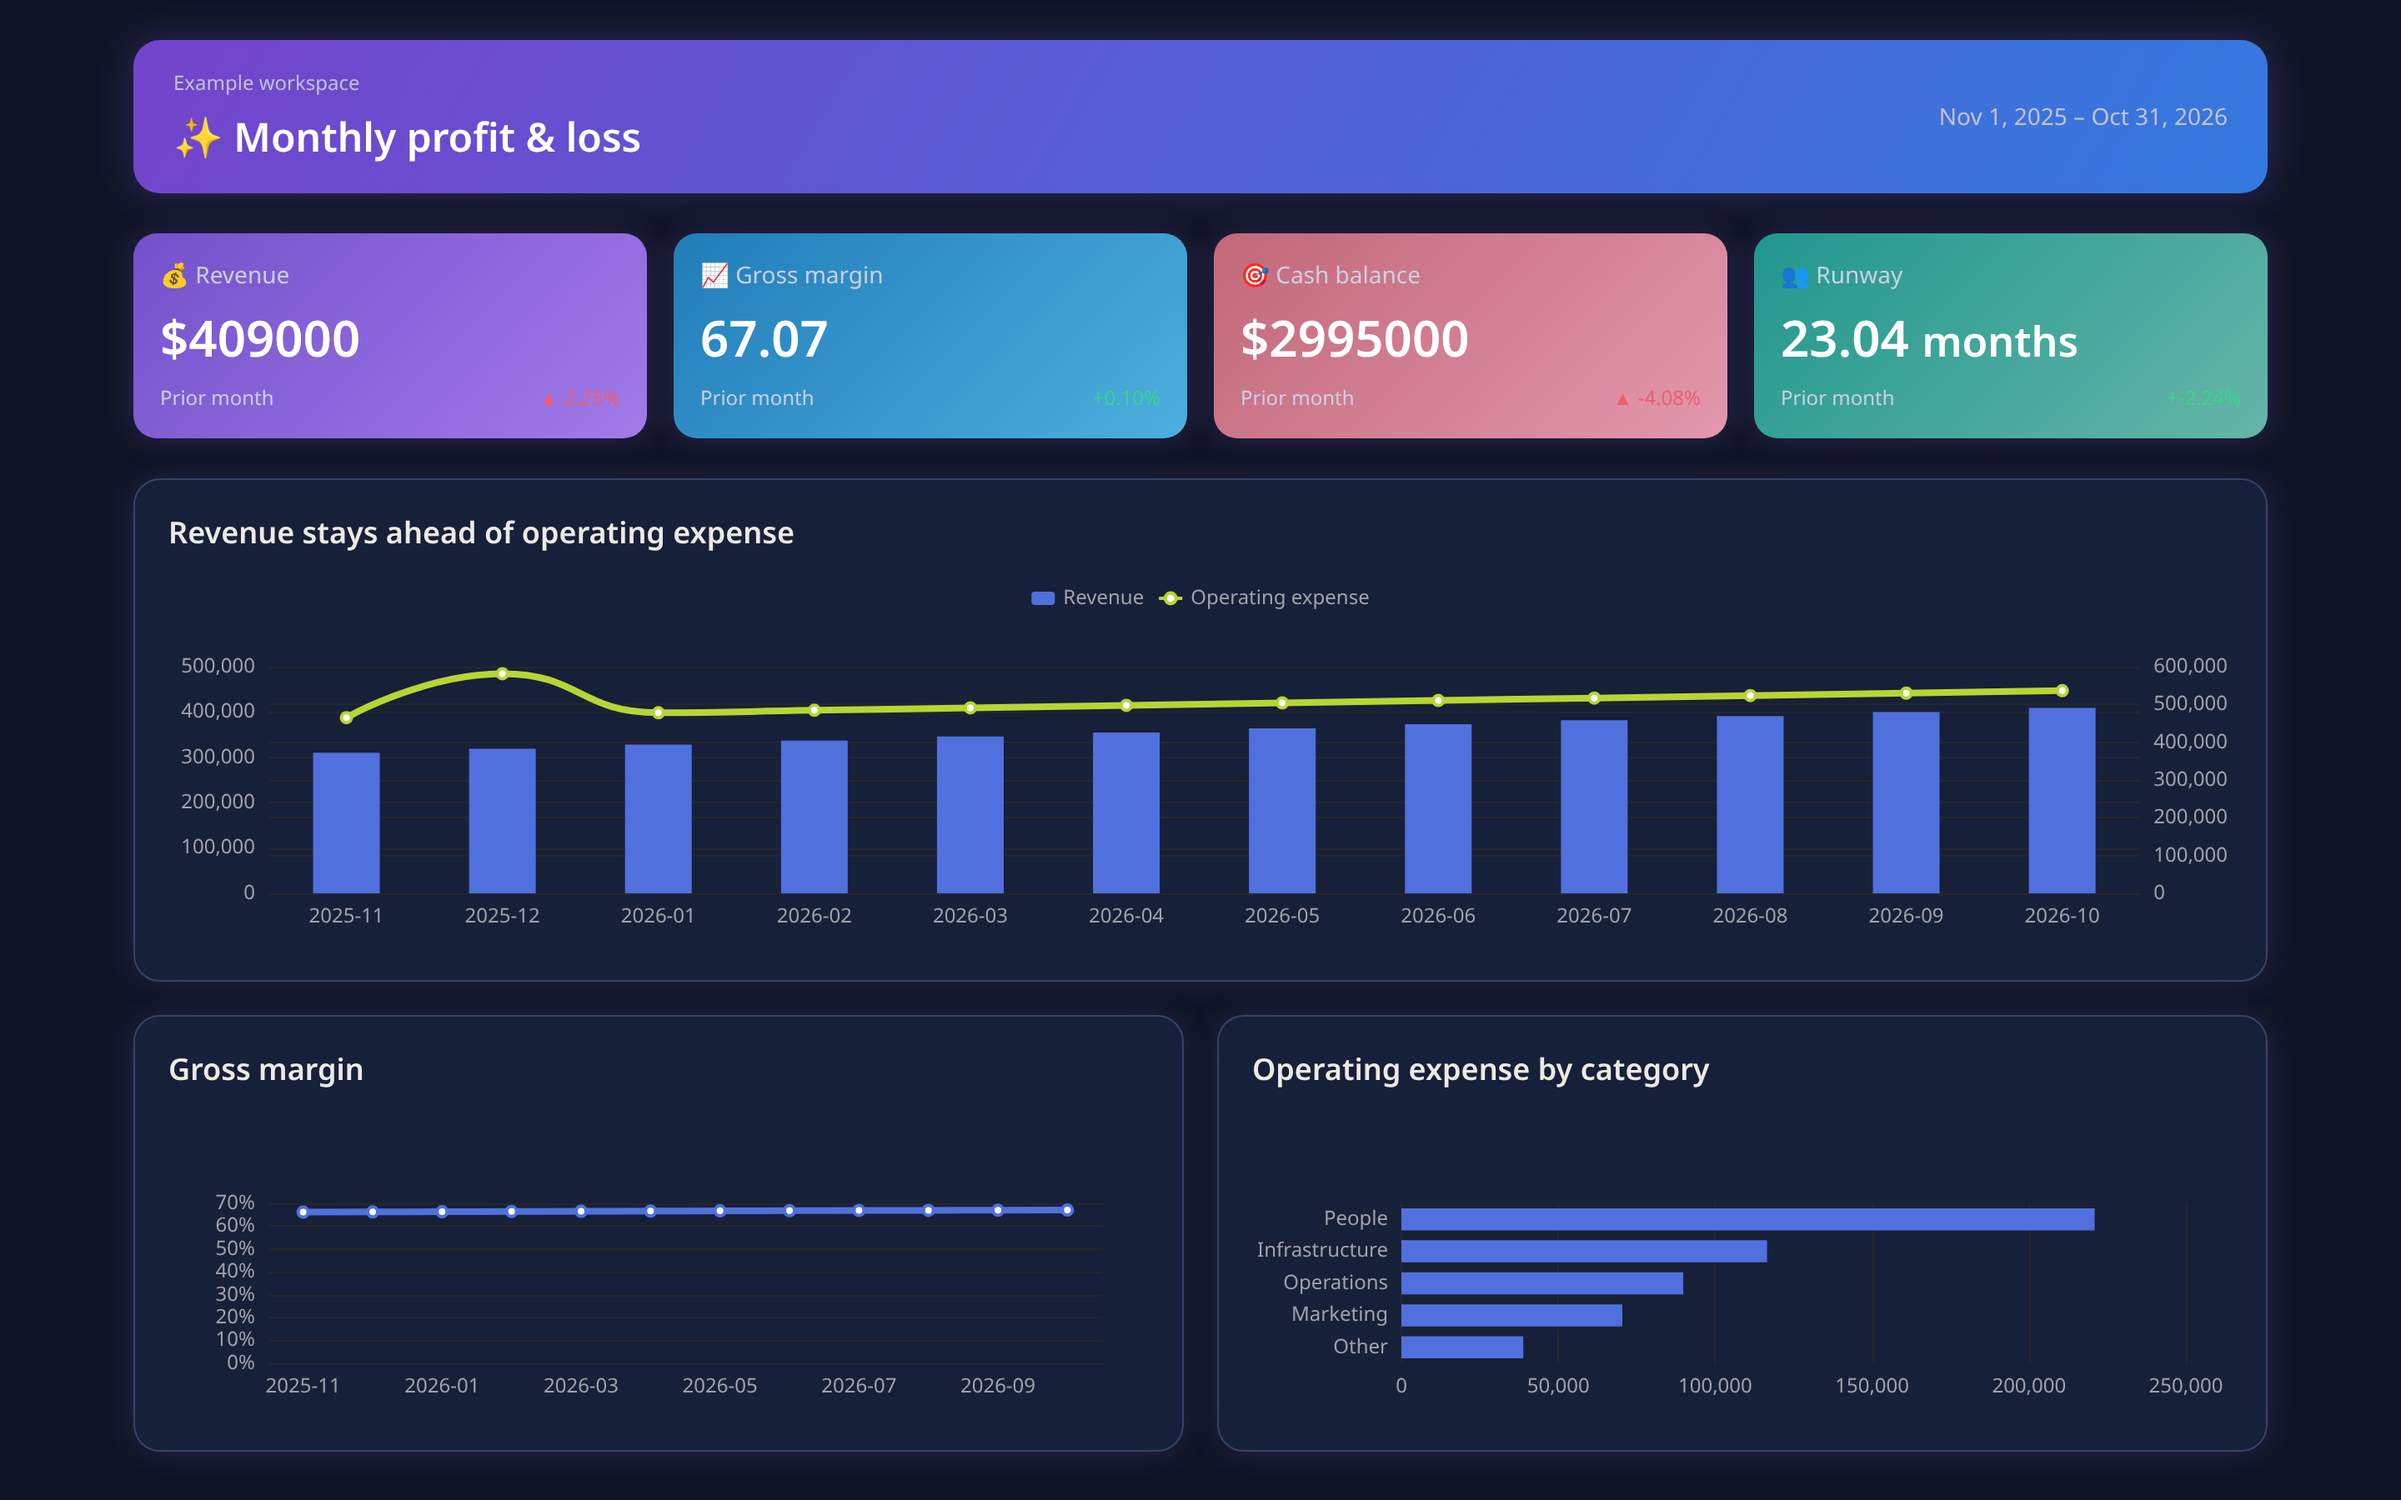
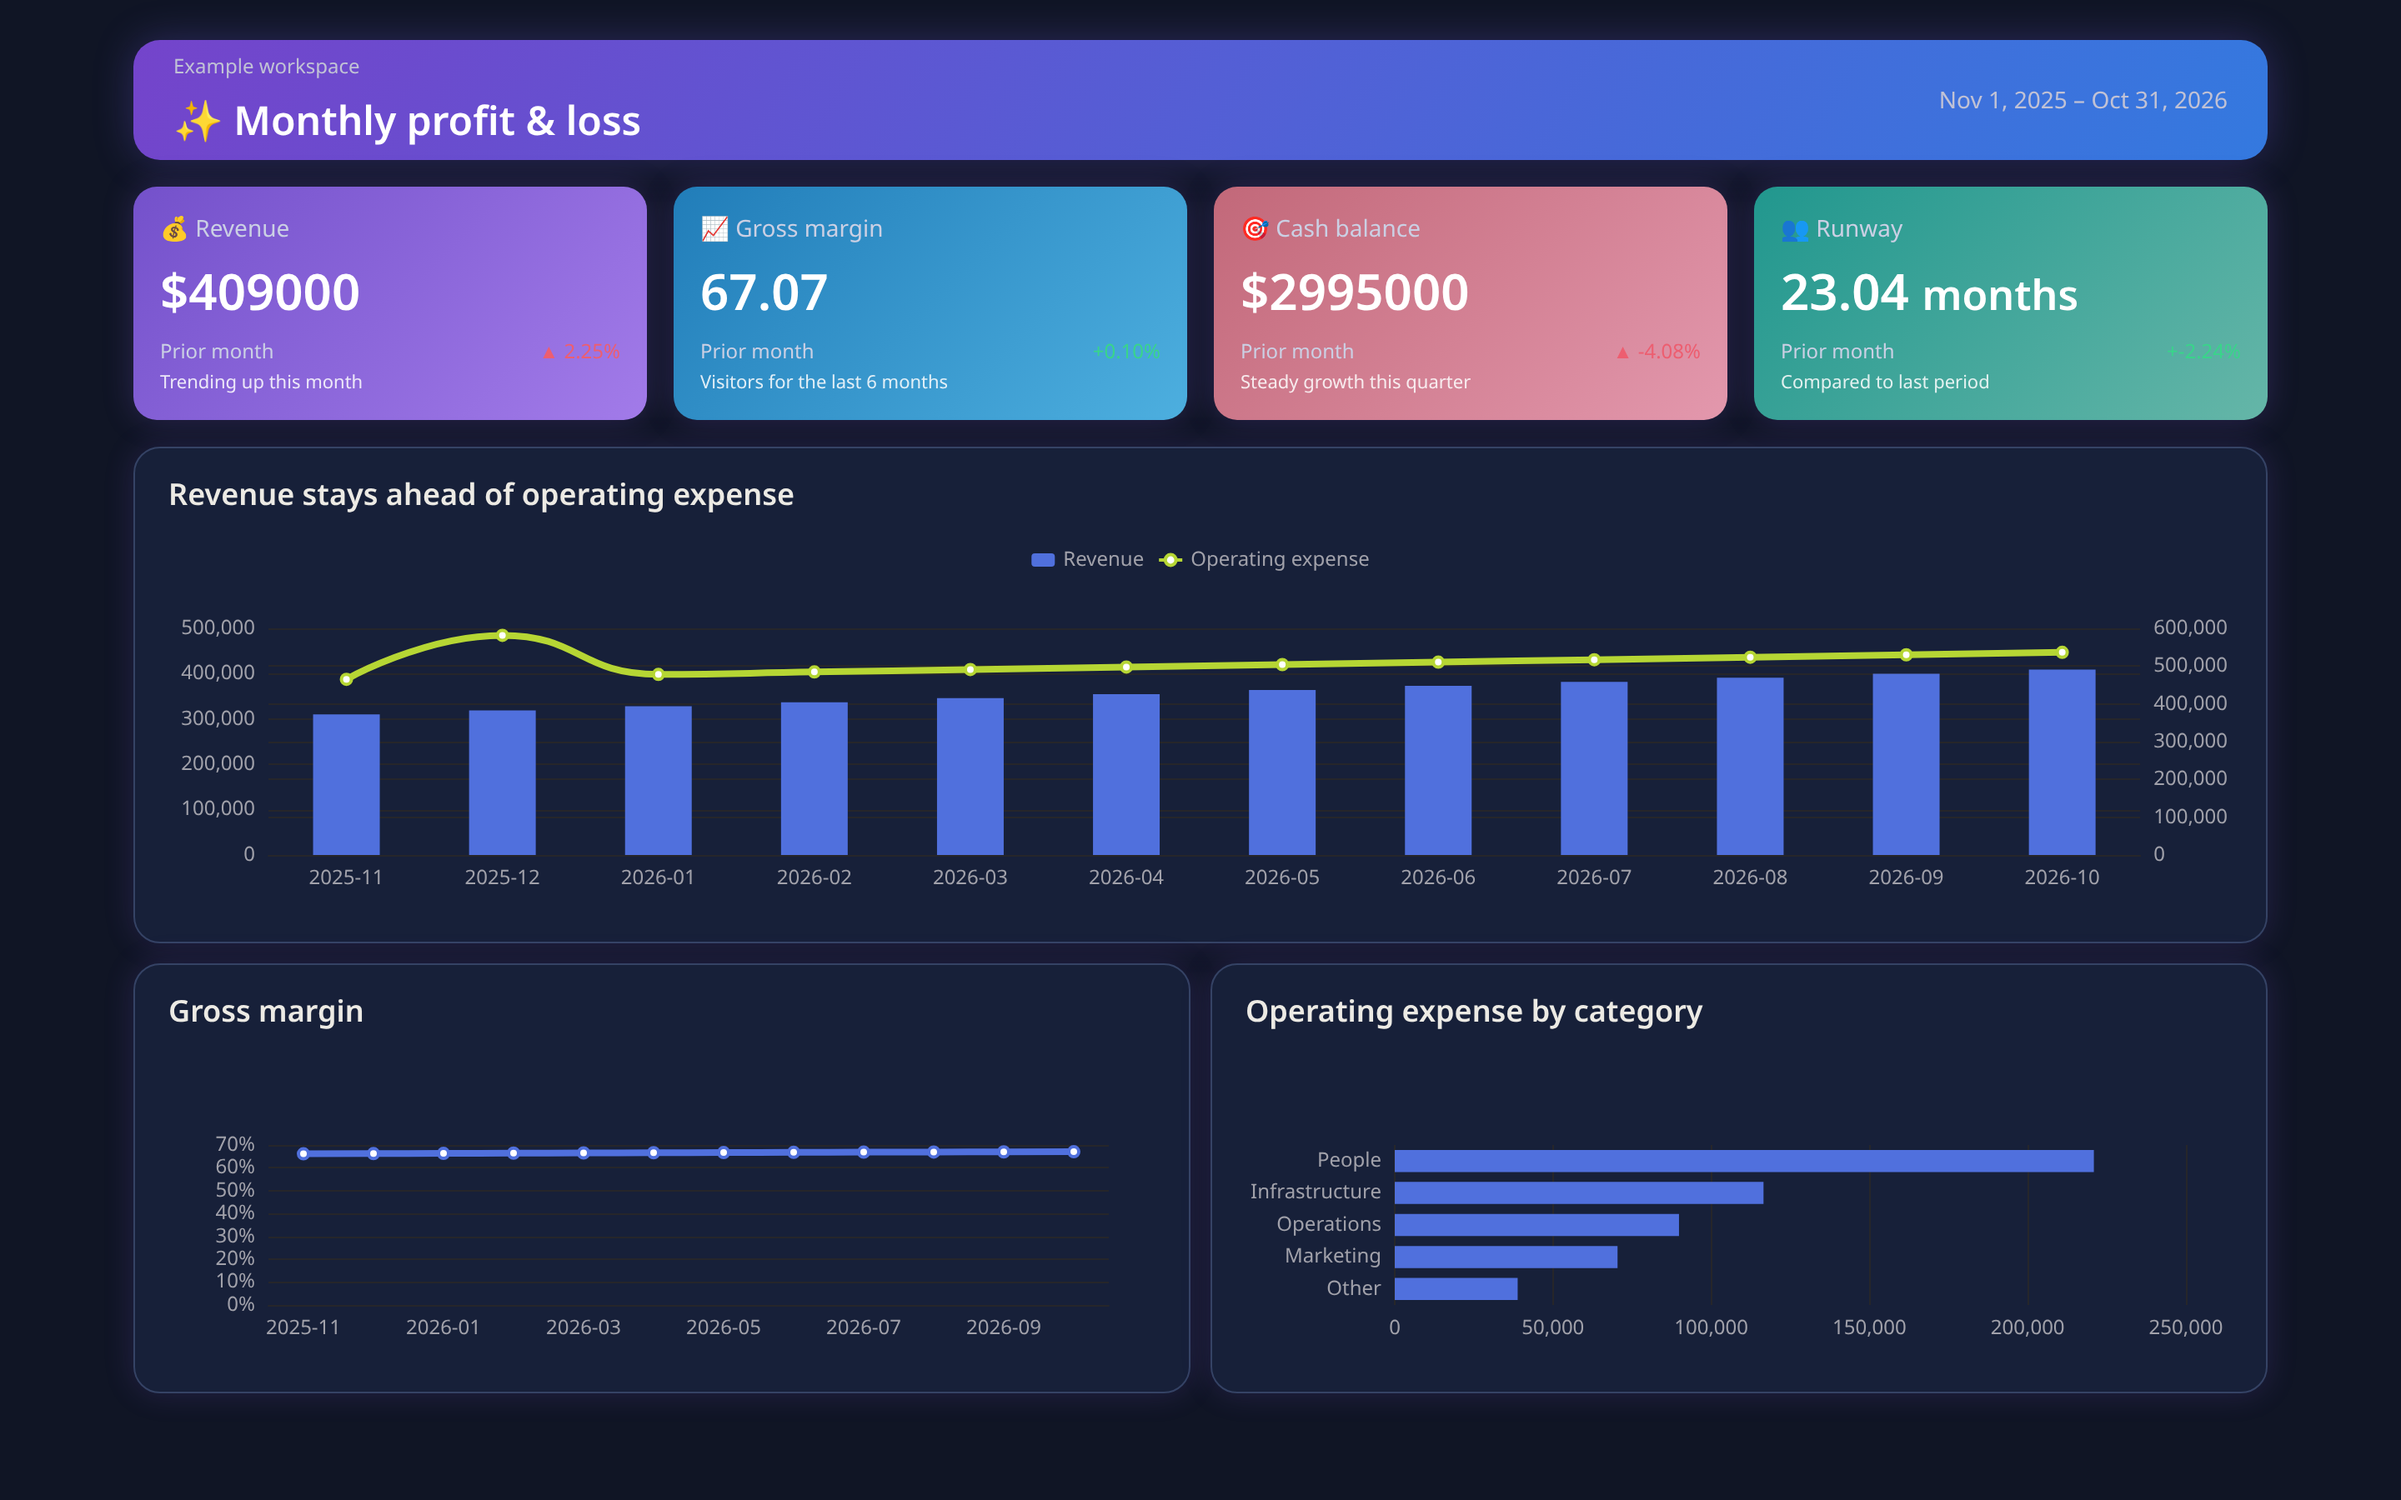
feat: add DT029 helper-captions for AI-default KPI copy
Flag explanatory sentences under KPIs and narrating chart titles.
Gallery before boards now show the pattern; after boards stay clean.

diff --git a/src/extract-in-page.ts b/src/extract-in-page.ts
@@ -9,6 +9,7 @@ export function extractInPage(): PageFacts {
     kpis: [],
     deltas: [],
     emojis: [],
+    helpers: [],
   };
   const selector = (el: Element): string => {
     if (el.id) return `#${CSS.escape(el.id)}`;
@@ -118,7 +119,47 @@ export function extractInPage(): PageFacts {
     )
       facts.emojis!.push({ selector: path, text });
   }
-  // Chart facts preserve the live ECharts option for each mounted chart.
+  // Helper captions under KPIs are the AI-default explanatory sentences.
+  const helperBoilerplate =
+    /^(trending|visitors for|this chart|showing |shows |compared to|compared with|steady growth|up this month|down this month|本图|该图|此图|显示了|展示了|本月持续|较上月|环比说明)/i;
+  const looksLikeHelper = (value: string): boolean => {
+    const text = value.trim();
+    if (!text) return false;
+    if (helperBoilerplate.test(text)) return true;
+    const words = text.split(/\s+/).filter(Boolean);
+    if (/[.。]$/.test(text) && (words.length >= 4 || (/[\u3400-\u9fff]/.test(text) && text.length >= 8)))
+      return true;
+    return words.length >= 5;
+  };
+  for (const el of document.querySelectorAll('[data-kpi-helper], .kpi, [data-kpi-row]')) {
+    const targets = el.hasAttribute('data-kpi-helper')
+      ? [el]
+      : [...el.querySelectorAll('[data-kpi-helper], p, span, small, div')].filter(
+          (node) =>
+            !node.hasAttribute('data-kpi') &&
+            !node.hasAttribute('data-delta') &&
+            !node.hasAttribute('data-kpi-label') &&
+            node.tagName !== 'LABEL' &&
+            !node.querySelector('[data-kpi], [data-delta]'),
+        );
+    for (const node of targets) {
+      const style = getComputedStyle(node);
+      if (
+        style.display === 'none' ||
+        style.visibility === 'hidden' ||
+        Number(style.opacity) === 0 ||
+        !node.getClientRects().length
+      )
+        continue;
+      const text = ownText(node) || (node.hasAttribute('data-kpi-helper') ? node.textContent?.trim() || '' : '');
+      if (!text) continue;
+      if (!node.hasAttribute('data-kpi-helper') && !looksLikeHelper(text)) continue;
+      const path = selector(node);
+      if (facts.helpers!.some((entry) => entry.selector === path)) continue;
+      facts.helpers!.push({ selector: path, text });
+    }
+  }
+    // Chart facts preserve the live ECharts option for each mounted chart.
   const echarts = (
     window as unknown as {
       echarts?: {

diff --git a/test/rules/dt029.test.ts b/test/rules/dt029.test.ts
@@ -1,0 +1,36 @@
+import { describe, it, expect } from 'vitest';
+import { check } from '../../src/index.js';
+
+describe('DT029', () => {
+  it('flags KPI helper facts', () => {
+    expect(
+      check(
+        {
+          charts: [],
+          helpers: [{ selector: '.kpi p', text: 'Trending up this month' }],
+        },
+        { pack: 'global', only: ['DT029'] },
+      ).length,
+    ).toBeGreaterThan(0);
+  });
+  it('flags narrating chart titles', () => {
+    expect(
+      check(
+        {
+          charts: [{ option: { title: { text: 'This chart shows revenue by week' } } }],
+        },
+        { pack: 'cn', only: ['DT029'] },
+      ).some((f) => f.path.endsWith('.title')),
+    ).toBe(true);
+  });
+  it('passes metric-only titles and no helpers', () => {
+    expect(
+      check({ charts: [{ option: { title: { text: 'Revenue' } } }] }, { pack: 'global', only: ['DT029'] }),
+    ).toEqual([]);
+  });
+  for (const pack of ['global', 'cn'] as const) {
+    it('passes an empty option for ' + pack, () => {
+      expect(check({}, { pack, only: ['DT029'] })).toEqual([]);
+    });
+  }
+});

diff --git a/src/rules/dt029-helper-captions.ts b/src/rules/dt029-helper-captions.ts
@@ -1,0 +1,28 @@
+import type { Rule, Option } from '../types.js';
+import { rule, charts, asArray } from './helpers.js';
+
+function titleText(option: Option): string {
+  const title = option.title as unknown;
+  if (typeof title === 'string') return title;
+  if (title && typeof title === 'object' && 'text' in title) {
+    const text = (title as { text?: unknown }).text;
+    return typeof text === 'string' ? text : '';
+  }
+  return '';
+}
+
+/** Helper sentences under KPIs and chart titles that narrate the chart repeat visible structure. */
+export const dt029: Rule = rule(
+  29,
+  'helper-captions',
+  'warn',
+  'Helper sentences under KPIs and chart titles that narrate the chart repeat visible structure.',
+  'remove the helper sentence; keep the metric label and value only',
+  function check(facts, context, emit) {
+    for (const entry of facts.helpers ?? []) emit(entry.selector);
+    charts(facts, (option, path) => {
+      const text = titleText(option);
+      if (/this chart shows|shows the|本图显示|该图展示|此图显示/i.test(text)) emit(`${path}.title`);
+    });
+  },
+);

diff --git a/test/cli.test.ts b/test/cli.test.ts
@@ -70,8 +70,8 @@ it('browser error explains CHROME_PATH', () => {
 it('rules lists every id', () => {
   const r = cli('rules');
   expect(r.status).toBe(0);
-  for (let i = 1; i <= 28; i++) expect(r.stdout).toContain(`DT${String(i).padStart(3, '0')}`);
-  expect(JSON.parse(cli('rules', '--format', 'json').stdout)).toHaveLength(28);
+  for (let i = 1; i <= 29; i++) expect(r.stdout).toContain(`DT${String(i).padStart(3, '0')}`);
+  expect(JSON.parse(cli('rules', '--format', 'json').stdout)).toHaveLength(29);
 });
 it('tokens output', () => {
   expect(JSON.parse(cli('tokens', '--pack', 'cn', '--mode', 'dark').stdout).bg).toBe('#121212');

diff --git a/src/rules/index.ts b/src/rules/index.ts
@@ -1,4 +1,5 @@
 import { dt028 } from './dt028-hero-metric.js';
+import { dt029 } from './dt029-helper-captions.js';
 import { dt027 } from './dt027-tabular-numerals.js';
 import { dt026 } from './dt026-line-weight.js';
 import { dt025 } from './dt025-legend-not-direct-label.js';
@@ -57,4 +58,5 @@ export const rules: Rule[] = [
   dt026,
   dt027,
   dt028,
+  dt029,
 ];

diff --git a/src/types.ts b/src/types.ts
@@ -86,6 +86,10 @@ export interface PageFacts {
     selector: string;
     text: string;
   }[];
+  helpers?: {
+    selector: string;
+    text: string;
+  }[];
   page?: {
     background?: string;
     deltaColors?: DeltaColors;

diff --git a/README.md b/README.md
@@ -97,6 +97,7 @@ Both packs specify spacing, typography, chart defaults, and number formatting. L
 | DT026 | line-weight             |
 | DT027 | tabular-numerals        |
 | DT028 | hero-metric             |
+| DT029 | helper-captions         |
 
 ## Gallery
 
@@ -104,10 +105,10 @@ All data is fictional and seeded in [gallery/data.mjs](gallery/data.mjs). Each p
 
 | Dashboard | Pack, mode         | Before                                              | After                              |
 | --------- | ------------------ | --------------------------------------------------- | ---------------------------------- |
-| saas      | global, light      | [32 errors, 50 warnings](gallery/saas-before.png)   | [clean](gallery/saas-after.png)    |
-| finance   | global, dark       | [7 errors, 42 warnings](gallery/finance-before.png) | [clean](gallery/finance-after.png) |
-| store     | cn, light          | [42 errors, 61 warnings](gallery/store-before.png)  | [clean](gallery/store-after.png)   |
-| live      | cn, dark 1920×1080 | [31 errors, 76 warnings](gallery/live-before.png)   | [clean](gallery/live-after.png)    |
+| saas      | global, light      | [37 errors, 55 warnings](gallery/saas-before.png)   | [clean](gallery/saas-after.png)    |
+| finance   | global, dark       | [7 errors, 46 warnings](gallery/finance-before.png) | [clean](gallery/finance-after.png) |
+| store     | cn, light          | [47 errors, 71 warnings](gallery/store-before.png)  | [clean](gallery/store-after.png)   |
+| live      | cn, dark 1920×1080 | [37 errors, 88 warnings](gallery/live-before.png)   | [clean](gallery/live-after.png)    |
 
 The live page renders at 1920×1080; the others at 1440×900.
 

diff --git a/skills/dashtaste-cn/references/avoid.md b/skills/dashtaste-cn/references/avoid.md
@@ -120,7 +120,11 @@ Replace it: hide the legend or label the series directly.
 
 ## Manual layout review
 
-Helper labels and explanatory captions repeat visible structure; no automatic rule yet.
+## DT029: helper-captions
+
+Helper labels and explanatory captions repeat visible structure.
+Replace it: remove the helper sentence; keep the metric label and value only.
+
 Decorative icon tiles distract from values; no automatic rule yet.
 Tracked labels and serif titles impair dense CJK reading; no automatic rule yet.
 
@@ -131,5 +135,6 @@ DT025: legends for two to four lines without direct end labels.
 DT026: decorative line strokes above 3px or below 1px.
 DT027: proportional numerals in KPI values.
 DT028: several equally sized KPIs without a clear hero.
+DT029: helper sentences under KPIs or narrating chart titles.
 Avoid donuts on KPI boards, dual axes, repeated boxed cards, and empty quadrants.
 Avoid helper sentences, uppercase tracking, and in-flow shadows.

diff --git a/skills/dashtaste-global/references/avoid.md b/skills/dashtaste-global/references/avoid.md
@@ -120,7 +120,11 @@ Replace it: hide the legend or label the series directly.
 
 ## Manual layout review
 
-Helper labels and explanatory captions repeat visible structure; no automatic rule yet.
+## DT029: helper-captions
+
+Helper labels and explanatory captions repeat visible structure.
+Replace it: remove the helper sentence; keep the metric label and value only.
+
 Decorative icon tiles distract from values; no automatic rule yet.
 Repeated card boxes weaken the document hierarchy; no automatic rule yet.
 
@@ -131,5 +135,6 @@ DT025: legends for two to four lines without direct end labels.
 DT026: decorative line strokes above 3px or below 1px.
 DT027: proportional numerals in KPI values.
 DT028: several equally sized KPIs without a clear hero.
+DT029: helper sentences under KPIs or narrating chart titles.
 Avoid donuts on KPI boards, dual axes, repeated boxed cards, and empty quadrants.
 Avoid helper sentences, uppercase tracking, and in-flow shadows.

diff --git a/docs/rules.md b/docs/rules.md
@@ -726,6 +726,30 @@ Pages with at least three KPIs need a clear hero metric.
 
 make the largest KPI at least 1.6 times the median of the others
 
+## DT029 helper-captions
+
+Severity: warn. Packs: global, cn.
+
+Why: Helper sentences under KPIs and chart titles that narrate the chart repeat visible structure.
+
+Triggers: Extracted `helpers` facts (including `[data-kpi-helper]`), or chart titles matching “this chart shows” / “shows the” / 本图显示 / 该图展示 / 此图显示.
+
+Fix: remove the helper sentence; keep the metric label and value only.
+
+Minimal failing input:
+
+```json
+{
+  "charts": [],
+  "helpers": [
+    {
+      "selector": ".kpi p",
+      "text": "Trending up this month"
+    }
+  ]
+}
+```
+
 ## Pack defaults
 
 The cn pack uses a warm neutral page, one white sheet, steel data marks, red-up and green-down deltas. Its dark screen uses an almost black page and sky data marks.
